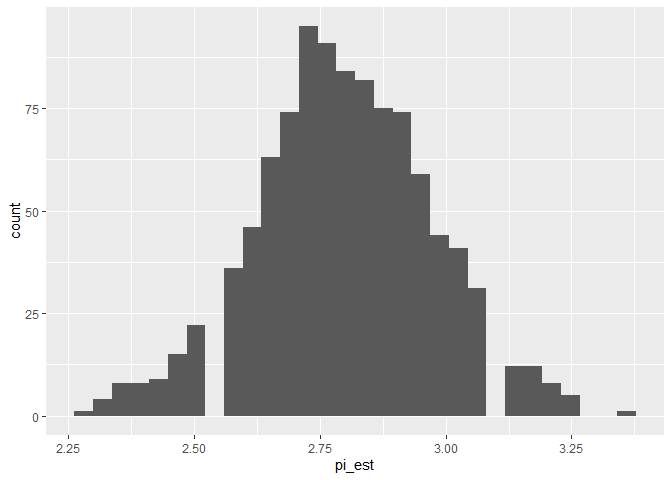
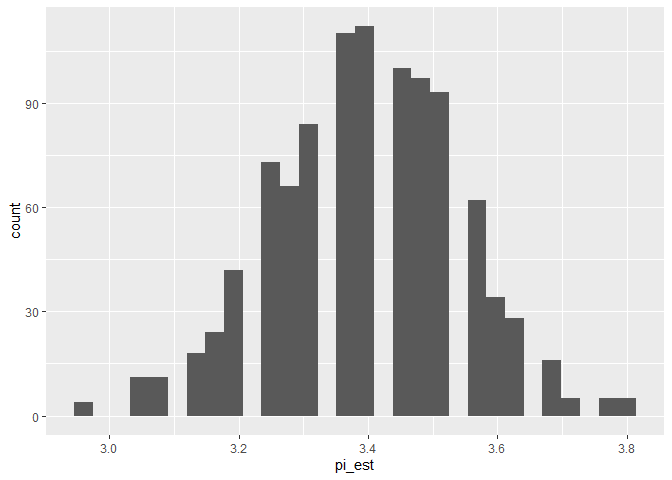
c07 revision

diff --git a/challenges/c07-monte-carlo-assignment.md b/challenges/c07-monte-carlo-assignment.md
@@ -199,8 +199,8 @@ square $x \in [0, 1]$ and $y \in [0, 1]$.
 ## TASK: Choose a sample size and generate samples
 n <- 100  # Choose a sample size
 df_q1 <- data.frame(
-            x = runif(n, min = 0, max = 1),
-            y = runif(n, min = 0, max = 1))  # Generate the data
+  x = runif(n, min = 0, max = 1),
+  y = runif(n, min = 0, max = 1))  # Generate the data
 ```
 
 Use the following to check that you’ve used the correct variable names.
@@ -317,7 +317,7 @@ df_q3
 ```
 
     ##   pi_est
-    ## 1    2.8
+    ## 1    3.4
 
 Use the following to check that you’ve used the correct variable names.
 (NB. This does not check correctness.)
@@ -366,9 +366,10 @@ estimate. Answer the questions below.
 
 ``` r
 ## TASK: Finish the code below
+set.seed(101)
 df_q4 <- 
   df_q1 %>% 
-  bootstraps(., times = 1000) %>% 
+  bootstraps(times = 1000) %>% 
   mutate(
     pi_est = map_dbl(
       splits,
@@ -397,7 +398,7 @@ df_q4 %>%
 
 - What is a range of plausible values, based on the sampling
   distribution you’ve generated?
-  - 3-3.7
+  - 2.9-3.85
 
 ### **q5** Bootstrap percentile confidence interval
 
@@ -423,7 +424,7 @@ df_q5
     ## # A tibble: 1 × 2
     ##   pi_lo pi_up
     ##   <dbl> <dbl>
-    ## 1  2.44  3.16
+    ## 1  3.08  3.68
 
 ### **q6** CLT confidence interval
 
@@ -442,14 +443,14 @@ done something *wrong* in one of the tasks….
 df_q1 %>%
   summarize(
     lo_q1 = mean(stat(x, y)) -
-      qnorm(1 - (1 - 0.95) / 2) * sd(stat(x, y)) / sqrt(100),
+      qnorm(1 - (1 - 0.95) / 2) * sd(stat(x, y)) / sqrt(n()),
     hi_q1 = mean(stat(x, y)) +
-      qnorm(1 - (1 - 0.95) / 2) * sd(stat(x, y)) / sqrt(100)
+      qnorm(1 - (1 - 0.95) / 2) * sd(stat(x, y)) / sqrt(n())
   )
 ```
 
     ##      lo_q1    hi_q1
-    ## 1 2.438923 3.161077
+    ## 1 3.118651 3.681349
 
 **Observations**:
 
